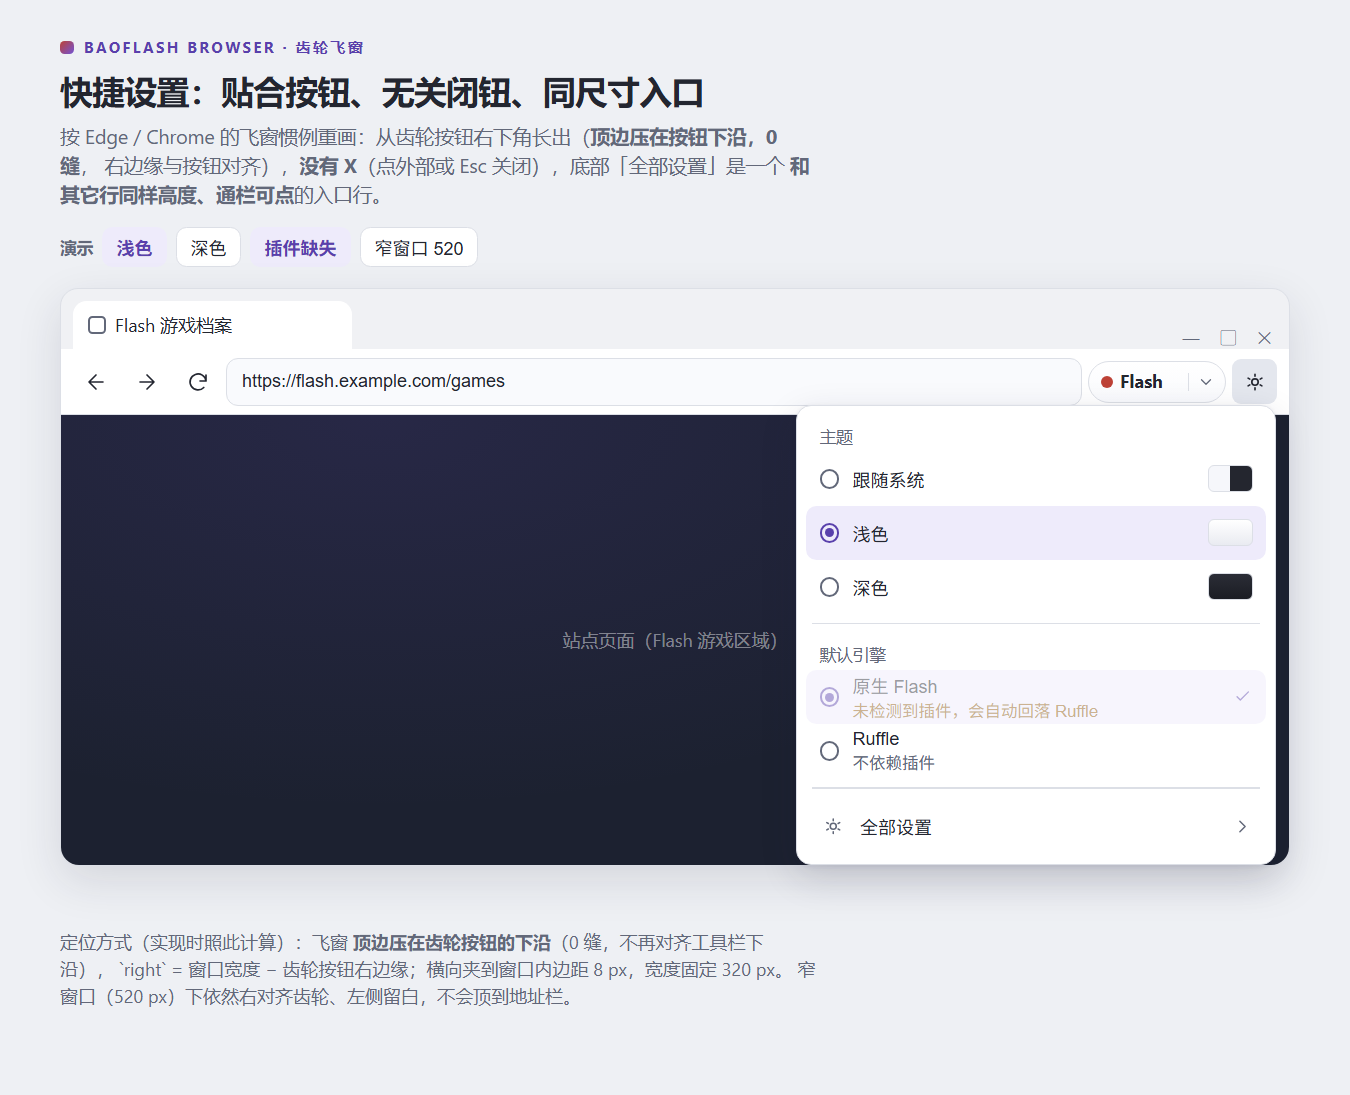
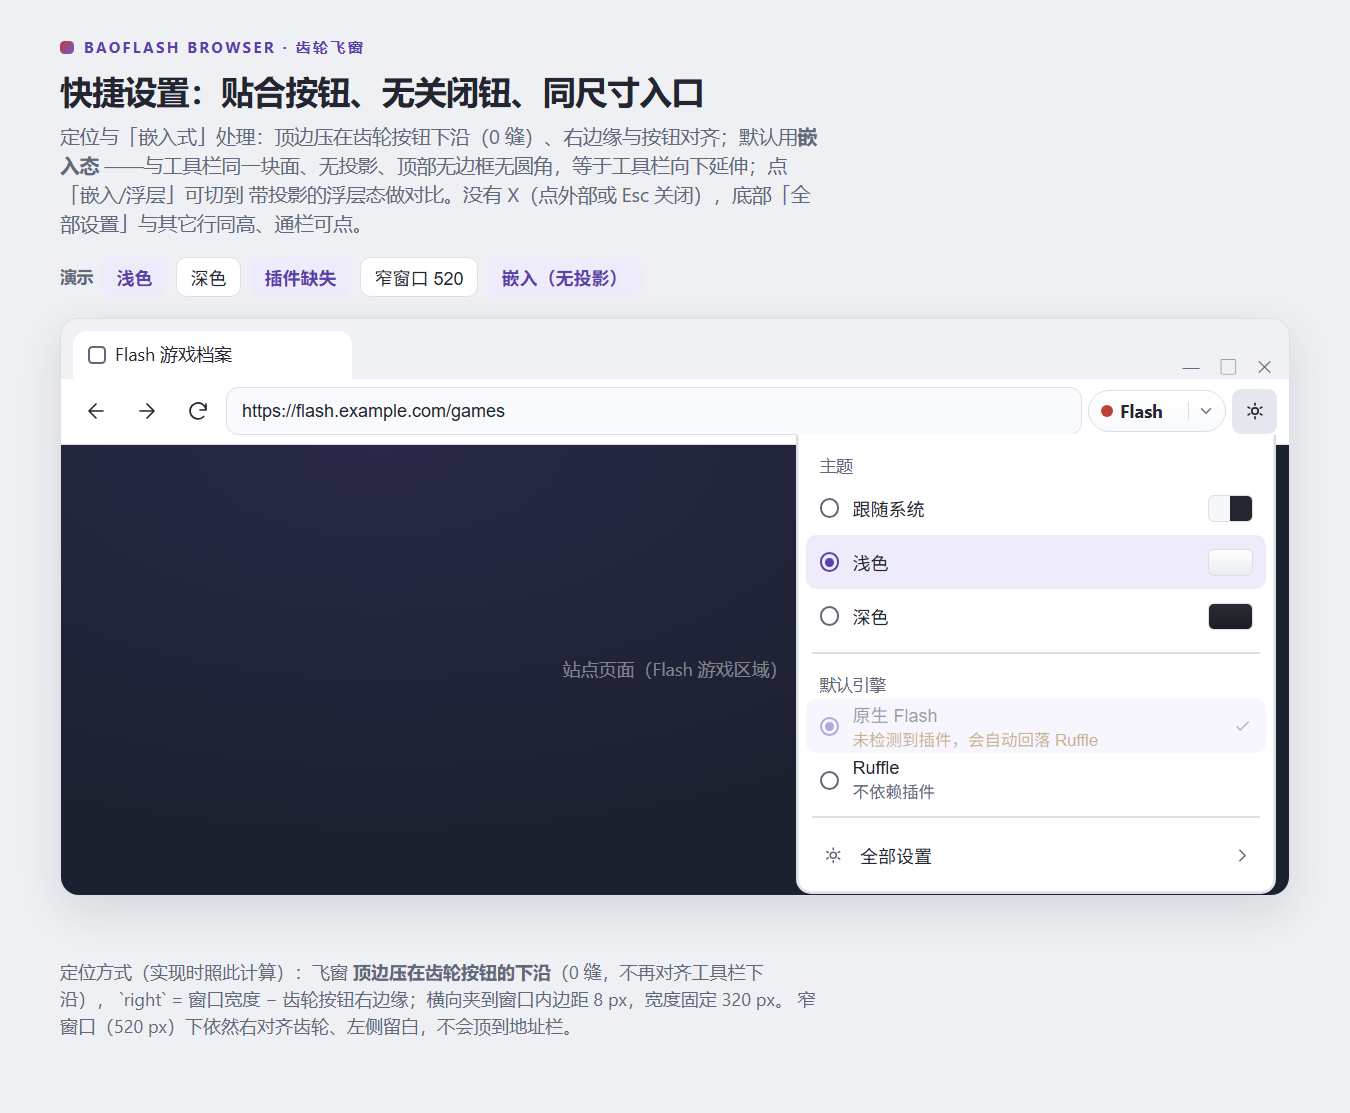
docs(design): 齿轮飞窗改默认「嵌入态」（无投影、顶部无边框无圆角）
层次感来自样式而不是定位：上一版有 box-shadow + 四角圆角 + 一圈边框，背景又是独立面，必然读成浮在页面上的卡片。新增嵌入态并与浮层态做成 demo 里的可切换对比：

- 嵌入态（默认）：与工具栏同一块面，去掉投影、顶部边框与顶部圆角，只保留左右/底部的发丝线；配合 0 缝定位，视觉上是工具栏向下延伸。
- 浮层态：保留 projection + 圆角 + 边框，供对比。

四张渲染（浅/深/插件缺失/窄窗口）与一张浮层对比图随文档入库。

diff --git a/docs/design/gear-quick-settings.html b/docs/design/gear-quick-settings.html
@@ -60,6 +60,19 @@
   .quick {
     position: absolute; z-index: 5; width: 320px; padding: 6px;
     background: var(--surface); border: 1px solid var(--line); border-radius: 10px; box-shadow: var(--shadow);
+    transition: box-shadow var(--motion, 0ms) ease;
+  }
+  /* 嵌入态：与工具栏同一块面——无投影、无顶部边框、顶部不圆角，等于工具栏向下延伸 */
+  .quick.flat {
+    border-top-color: transparent;
+    border-radius: 0 0 10px 10px;
+    box-shadow: none;
+  }
+  .quick.flat::before {
+    /* 只在左右和底部留一条发丝线，顶部与工具栏完全连续 */
+    content: ''; position: absolute; inset: 0; border-radius: inherit; pointer-events: none;
+    box-shadow: inset 0 -1px 0 var(--line), inset 1px 0 0 var(--line), inset -1px 0 0 var(--line);
+    border-radius: 0 0 10px 10px;
   }
   .row {
     display: grid; align-items: center; gap: 9px; width: 100%; min-height: 36px; padding: 0 9px;
@@ -108,9 +121,9 @@
   <p class="kicker">BAOFLASH BROWSER · 齿轮飞窗</p>
   <h1>快捷设置：贴合按钮、无关闭钮、同尺寸入口</h1>
   <p class="lead">
-    按 Edge / Chrome 的飞窗惯例重画：从齿轮按钮右下角长出（<strong>顶边压在按钮下沿，0 缝</strong>，
-    右边缘与按钮对齐），<strong>没有 X</strong>（点外部或 Esc 关闭），底部「全部设置」是一个
-    <strong>和其它行同样高度、通栏可点</strong>的入口行。
+    定位与「嵌入式」处理：顶边压在齿轮按钮下沿（0 缝）、右边缘与按钮对齐；默认用<strong>嵌入态</strong>
+    ——与工具栏同一块面、无投影、顶部无边框无圆角，等于工具栏向下延伸；点「嵌入/浮层」可切到
+    带投影的浮层态做对比。没有 X（点外部或 Esc 关闭），底部「全部设置」与其它行同高、通栏可点。
   </p>
 
   <div class="sim" aria-label="演示状态">
@@ -119,6 +132,7 @@
     <button class="action" id="demo-dark">深色</button>
     <button class="action" id="demo-missing">插件缺失</button>
     <button class="action" id="demo-narrow">窄窗口 520</button>
+    <button class="action" id="demo-flat" aria-pressed="true">嵌入（无投影）</button>
   </div>
 
   <section class="frame" id="frame" aria-label="浏览器演示">
@@ -191,7 +205,7 @@
   const gear = $('gear')
   const quick = $('quick')
   const note = $('note')
-  const state = { theme: 'light', engine: 'ppapi', missing: false, open: true }
+  const state = { theme: 'light', engine: 'ppapi', missing: false, open: true, flat: true }
 
   const resolved = (mode) => mode === 'system' ? (matchMedia('(prefers-color-scheme: dark)').matches ? 'dark' : 'light') : mode
 
@@ -220,12 +234,14 @@
     $('ppapi-sub').classList.toggle('hint', state.missing)
     gear.setAttribute('aria-expanded', String(state.open))
     quick.hidden = !state.open
+    quick.classList.toggle('flat', state.flat)
     place()
     // 演示按钮
     $('demo-light').setAttribute('aria-pressed', String(state.theme === 'light'))
     $('demo-dark').setAttribute('aria-pressed', String(state.theme === 'dark'))
     $('demo-missing').setAttribute('aria-pressed', String(state.missing))
     $('demo-narrow').setAttribute('aria-pressed', String(frame.classList.contains('narrow')))
+    $('demo-flat').setAttribute('aria-pressed', String(state.flat))
   }
 
   gear.addEventListener('click', () => { state.open = !state.open; note.textContent = ''; render() })
@@ -257,6 +273,7 @@
   $('demo-dark').onclick = () => { state.theme = 'dark'; render() }
   $('demo-missing').onclick = () => { state.missing = !state.missing; render() }
   $('demo-narrow').onclick = () => { frame.classList.toggle('narrow'); render() }
+  $('demo-flat').onclick = () => { state.flat = !state.flat; render() }
   addEventListener('resize', place)
   render()
 </script>
